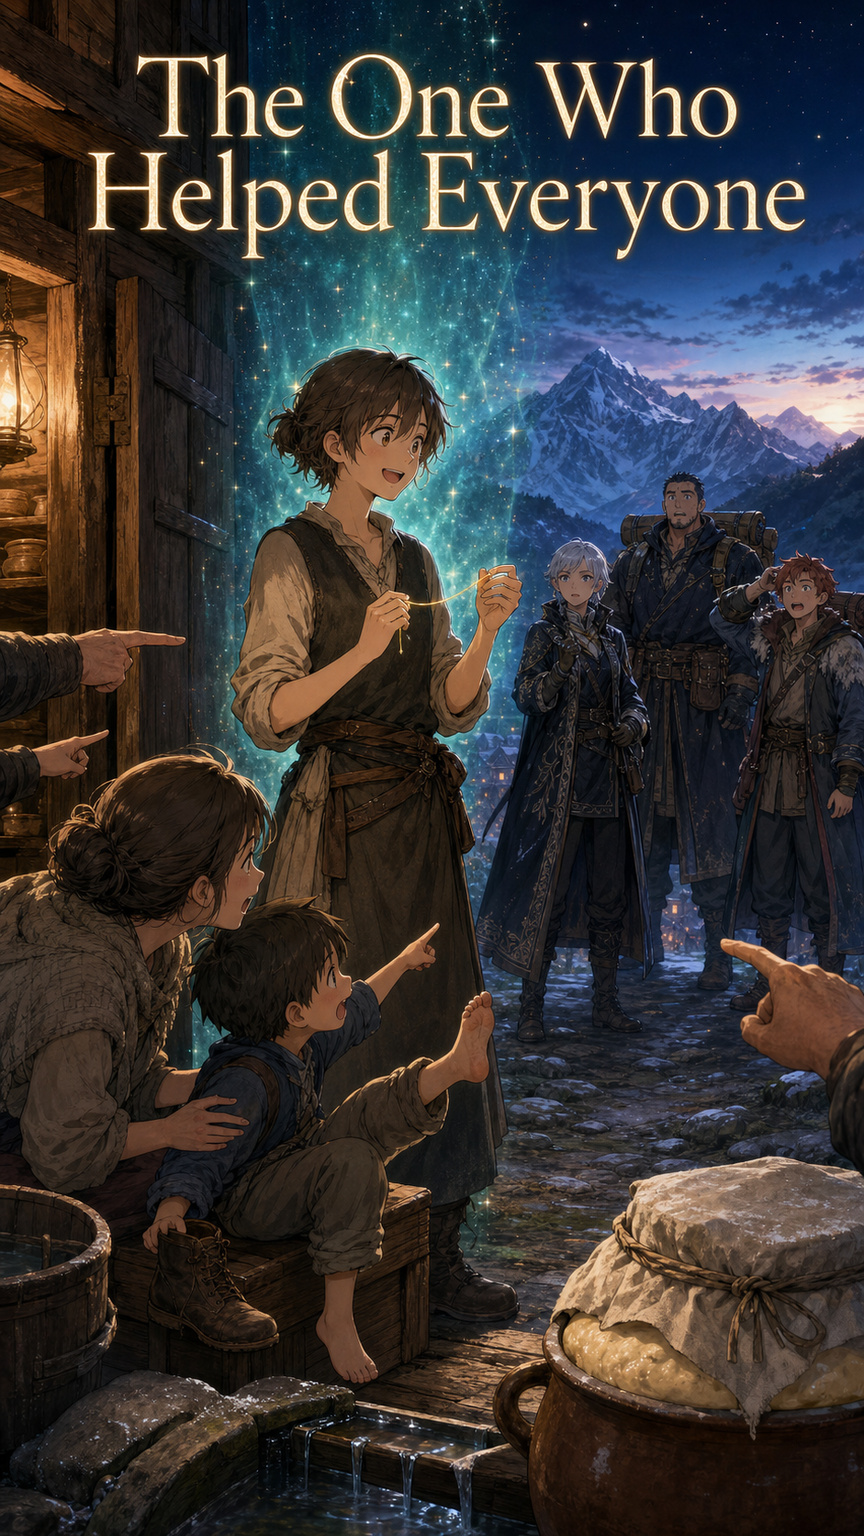
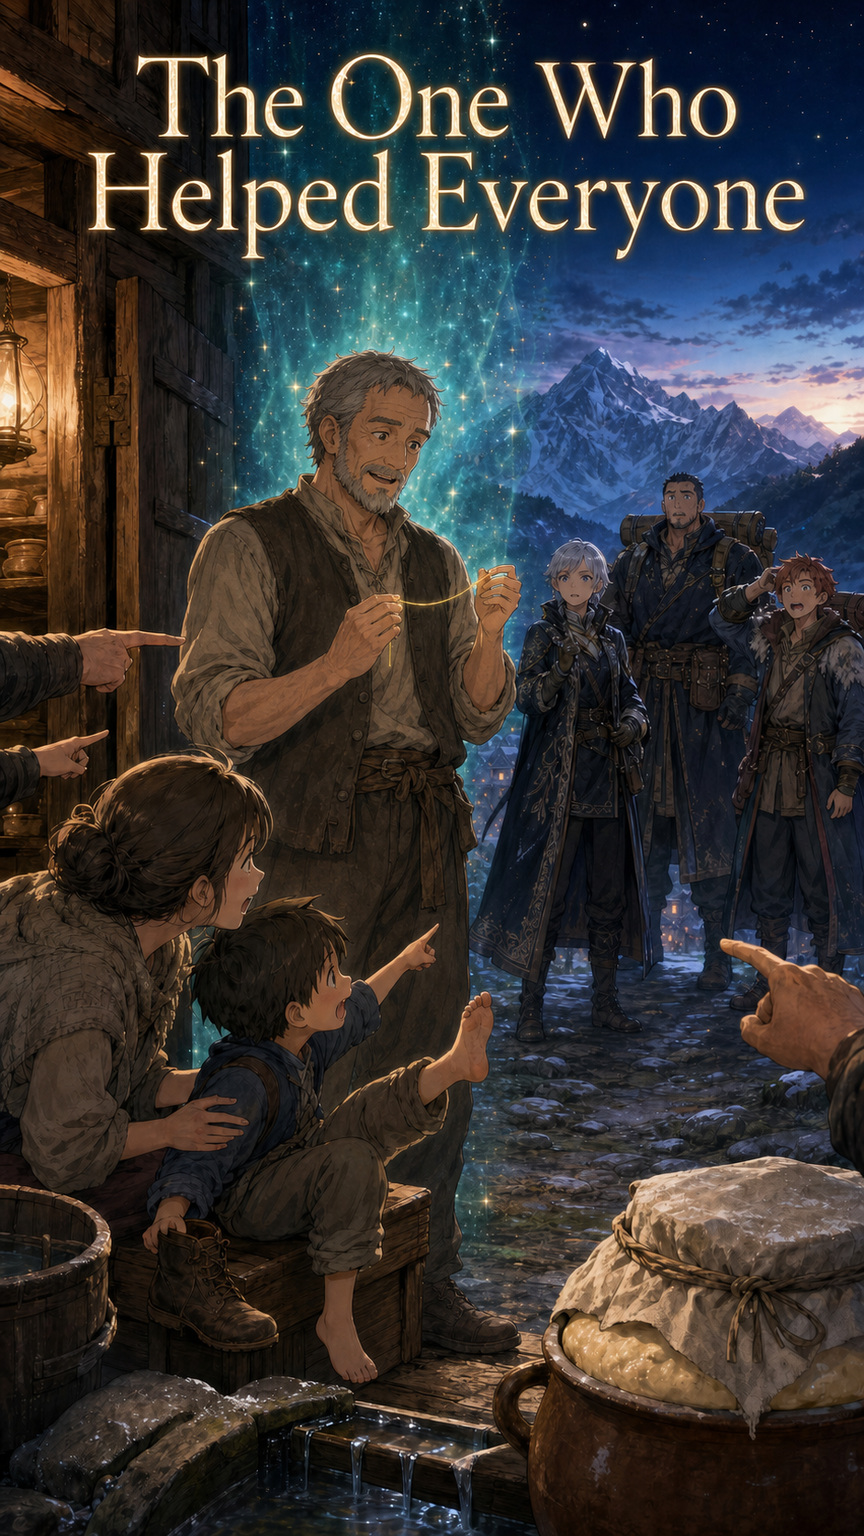
Make the village mage an older man

diff --git a/stories/the-villages-only-mage/story.md b/stories/the-villages-only-mage/story.md
@@ -8,7 +8,7 @@ canon: false
 
 # The One Who Helped Everyone
 
-The knocking started before sunrise, and you were halfway through saying yes before you had lifted the latch.
+The knocking started before sunrise, and you were halfway through saying yes before you had lifted the latch, still in your nightshirt with your iron-gray beard flattened on one side.
 
 On the other side stood the cooper's youngest, one boot in his hand and his bare foot tucked behind his other ankle. His mother held him by the shoulder. Behind them, the miller waited with a loop of iron from the sluice gate, the midwife cradled a gray stone in both palms, and the baker had brought her starter crock despite the rule about keeping dough away from you.
 
@@ -22,7 +22,7 @@ You liked that laugh. You liked the instant in which pain ceased and surprise to
 
 The miller's iron loop had frozen solid around its pin. You laid two fingers against it and persuaded the ice nearest the metal to loosen first. Water ticked onto the floor without the iron heating enough to swell the wooden housing. Then you pressed warmth into the midwife's stone, layer by patient layer, until it would hold through a difficult birth without scorching the blankets.
 
-No one else in the village had been born with magic. Beyond the last goat track, the mountains rose high enough to turn travelers elsewhere, so as far as most villagers were concerned, magic meant your hands and a problem in front of them. By the time you were twelve, people had begun knocking before breakfast.
+No one else in the village had been born with magic. Beyond the last goat track, the mountains rose high enough to turn travelers elsewhere, so as far as most villagers were concerned, magic meant your hands and a problem in front of them. People had begun knocking before breakfast when you were twelve. Forty-six years later, they still did, though now some of the children you had once helped sent grandchildren of their own.
 
 By then the baker's crock had begun to knock under its lid.
 
@@ -44,7 +44,7 @@ All three wore traveling coats grayed with old salt and fresh mud. The first was
 
 He reached the queue, looked from face to face, and asked, “Where is the one with the absurdly massive amount of magical energy?”
 
-Every hand pointed at you.
+Every hand pointed at you, a fifty-eight-year-old man still dressed for bed.
 
 Even the boy on the wood box pointed with his splintered foot.
 
@@ -148,7 +148,7 @@ The mill gate, however, was a problem with a place to put your hands, so you car
 
 The trio followed you through the village. At the mill, water had climbed nearly to the top of the sluice because the iron pin had seized again in its wooden collar. The miller and his sister had ropes around the gate, but pulling harder would only split the housing.
 
-You knelt on the wet boards. Here was a problem that fit you. You traced warmth along the hidden side of the pin, felt ice loosen grain by grain, and held the swollen wood cool. The rope jerked. The gate rose, and brown water shouldered through beneath it.
+You knelt on the wet boards, your left knee lodging its usual complaint about cold weather. Here was a problem that fit you. You traced warmth along the hidden side of the pin, felt ice loosen grain by grain, and held the swollen wood cool. The rope jerked. The gate rose, and brown water shouldered through beneath it.
 
 The familiar pleasure moved through you as immediate as hunger. Skill met need; the work fitted under your hands. You grinned at the open gate.
 
@@ -222,7 +222,7 @@ The road mage spent the remaining light counting what the village had quietly ar
 
 The list lengthened as the sun went down.
 
-Your old neighbor had raised you after your parents died. She had taught you to bank a fire, mend a sock, and never trust a clean-looking mushroom with a yellow frill. Magic had made two of those lessons less necessary. Age had made the third more emphatic.
+Your old neighbor had raised you from boyhood after your parents died. She had taught you to bank a fire, mend a sock, and never trust a clean-looking mushroom with a yellow frill. Magic had made two of those lessons less necessary. Her age had made the third more emphatic.
 
 She was in bed when you visited, wrapped in two quilts with the stove unlit. She said your warmth felt better in her joints than stove heat and did not dry her throat. You believed her. You also knew the woodpile outside was too low.
 
@@ -256,7 +256,7 @@ The room seemed colder after you said it.
 
 She looked toward the empty stove. “It might.”
 
-You had hoped, without admitting it, that she would tell you to go freely. Instead she rubbed at one knuckle and said, “I want you here. I sleep better when you're across the path. I also don't want to look at you in ten years and know my cold feet kept you from the first thing you ever wanted. I can't make those facts agree, and I won't say I can just to soothe you.”
+You had hoped, without admitting it, that she would tell you to go freely. Instead she rubbed at one knuckle and said, “I want you here. I sleep better when you're across the path. I also don't want to spend whatever years I have left knowing my cold feet kept you from the first thing in all these years that you've wanted simply for yourself. I can't make those facts agree, and I won't say I can just to soothe you.”
 
 You laughed once, and your eyes stung.
 

diff --git a/stories/the-villages-only-mage/review.md b/stories/the-villages-only-mage/review.md
@@ -23,4 +23,4 @@ Verdict: PASS
 ## Findings
 
 - Blocking: none
-- Notes: The story fulfills the village-helper and visiting-mages premise, keeps its magic local to living users and living-supplied effects, and resolves the protagonist's choice without erasing the village's real dependencies.
+- Notes: The story fulfills the village-helper and visiting-mages premise through a consistently portrayed fifty-eight-year-old man; his forty-six years of service and lifelong bond with the neighbor who raised him are chronologically plausible. Its living-supplied magic, recursive requests, bounded choice, and unfinished obligations remain coherent with universe authority and the binding craft profile.
